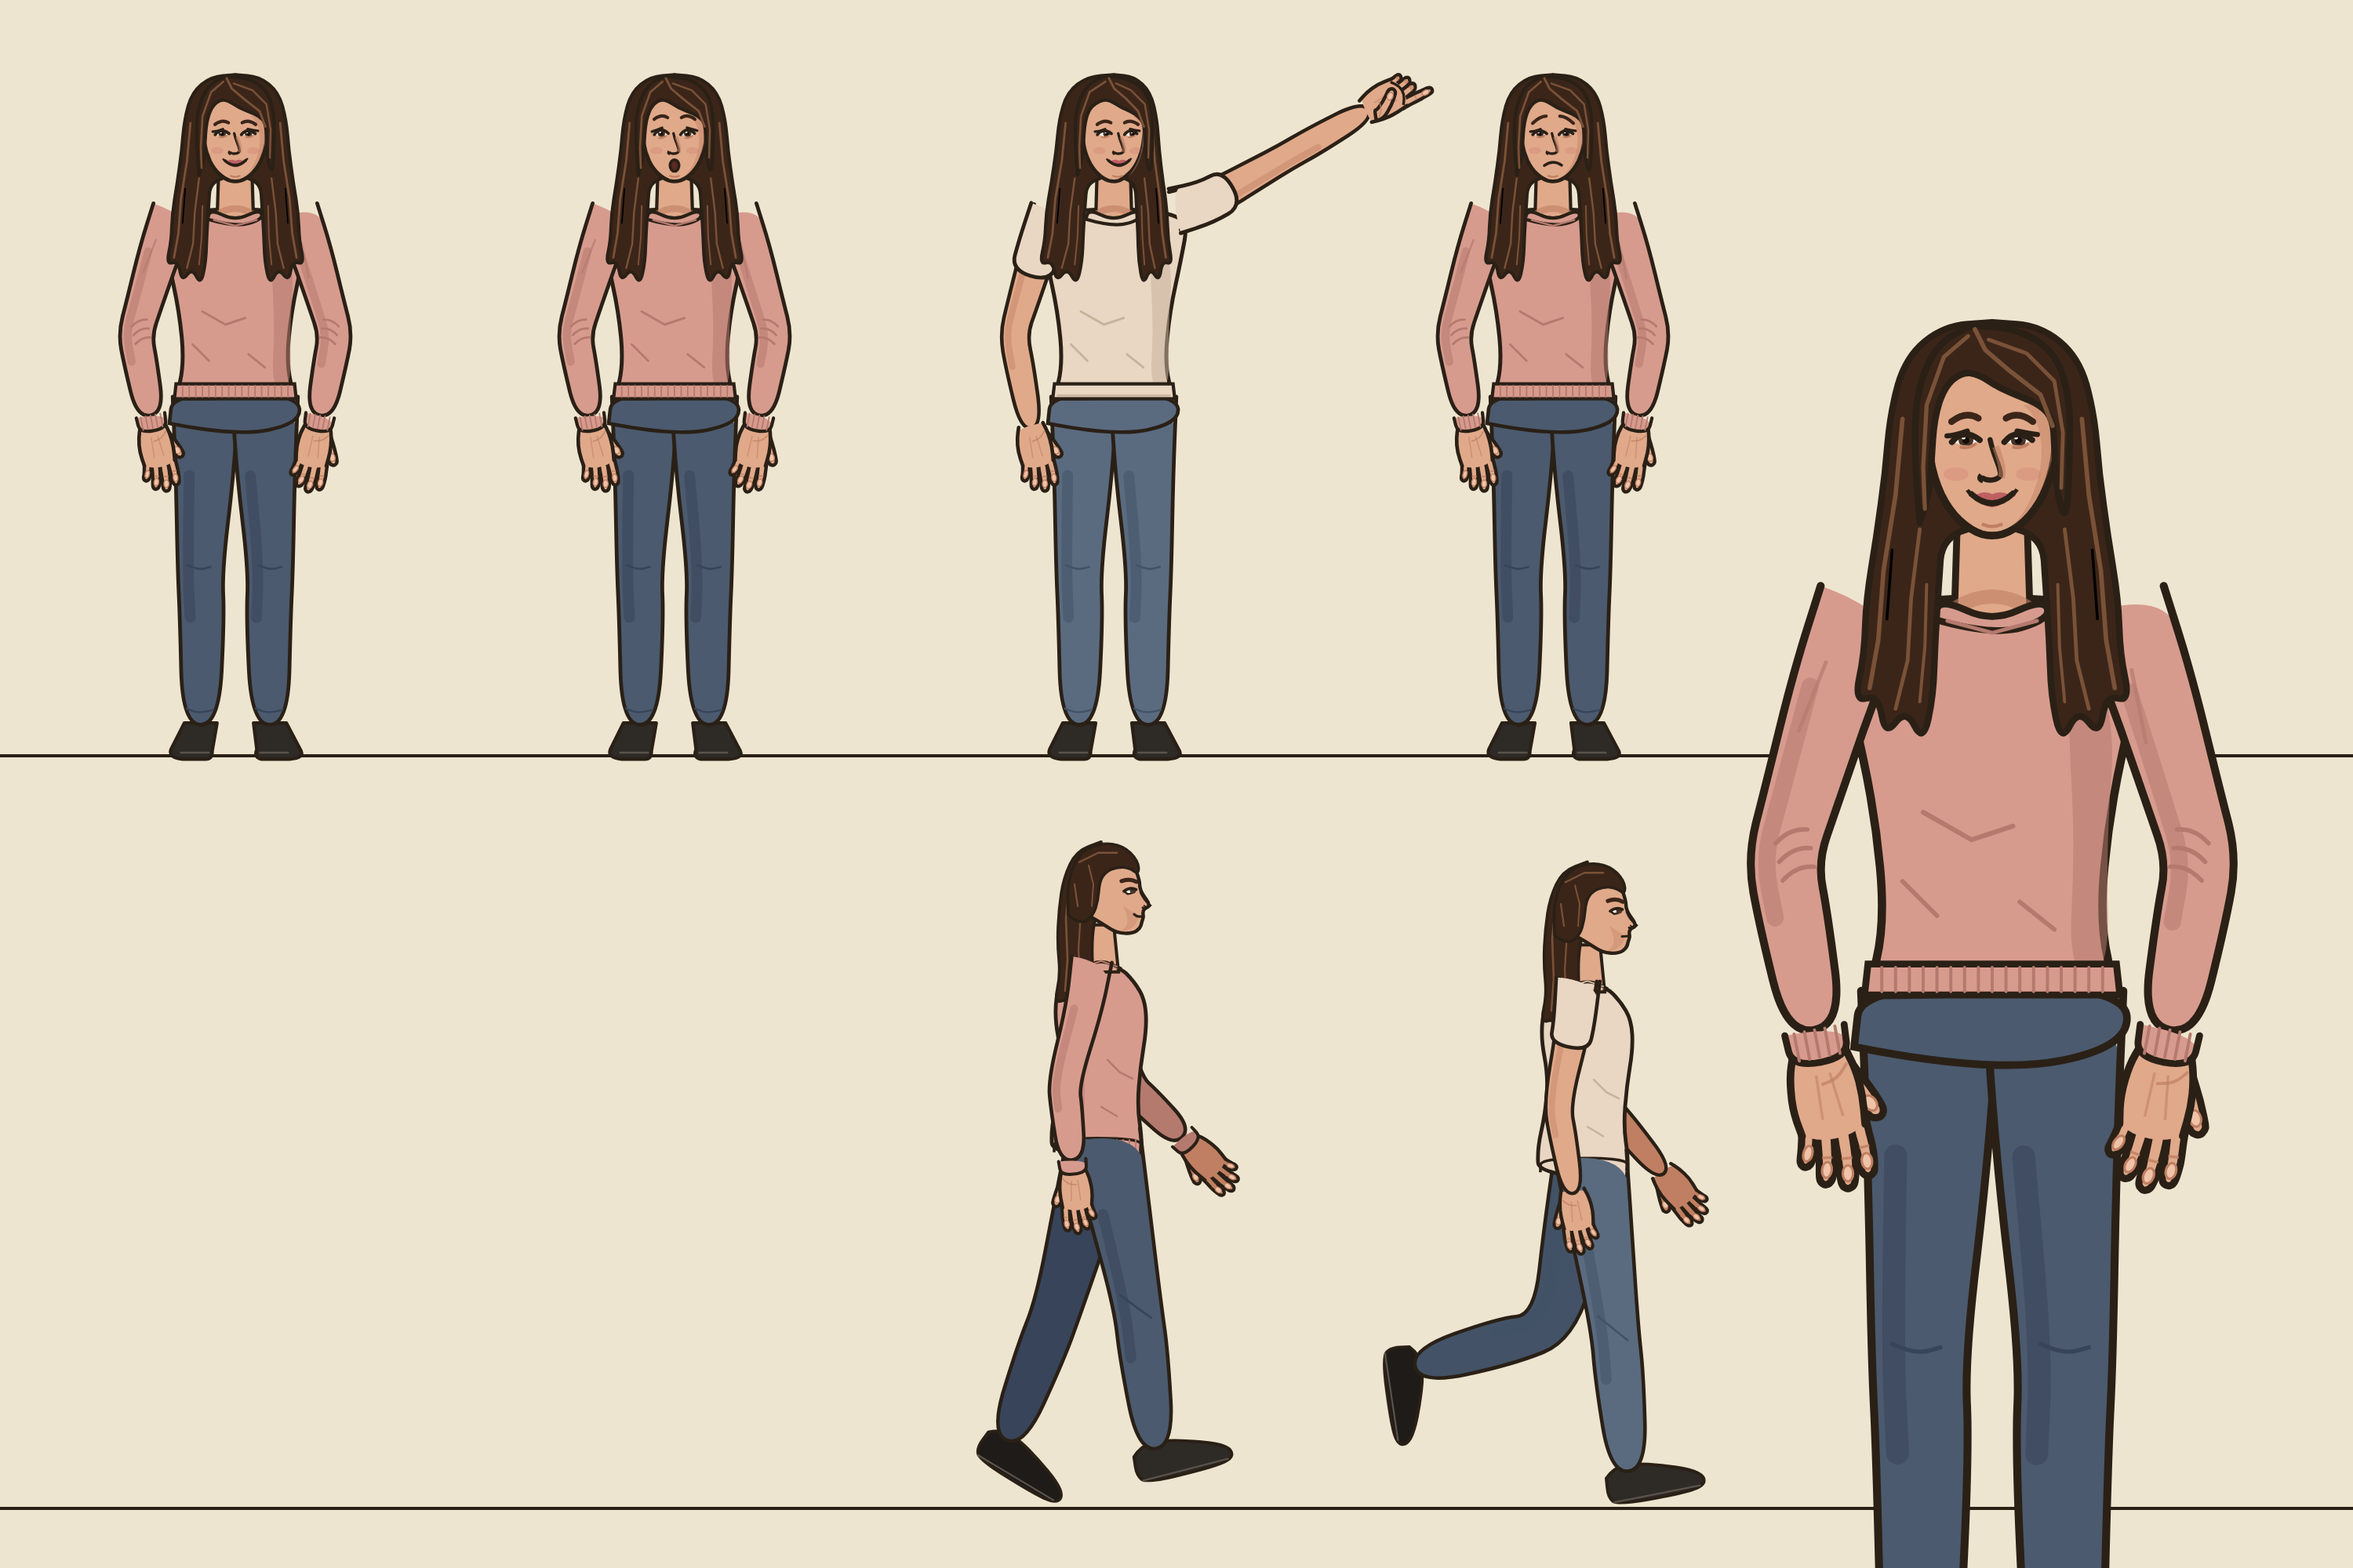
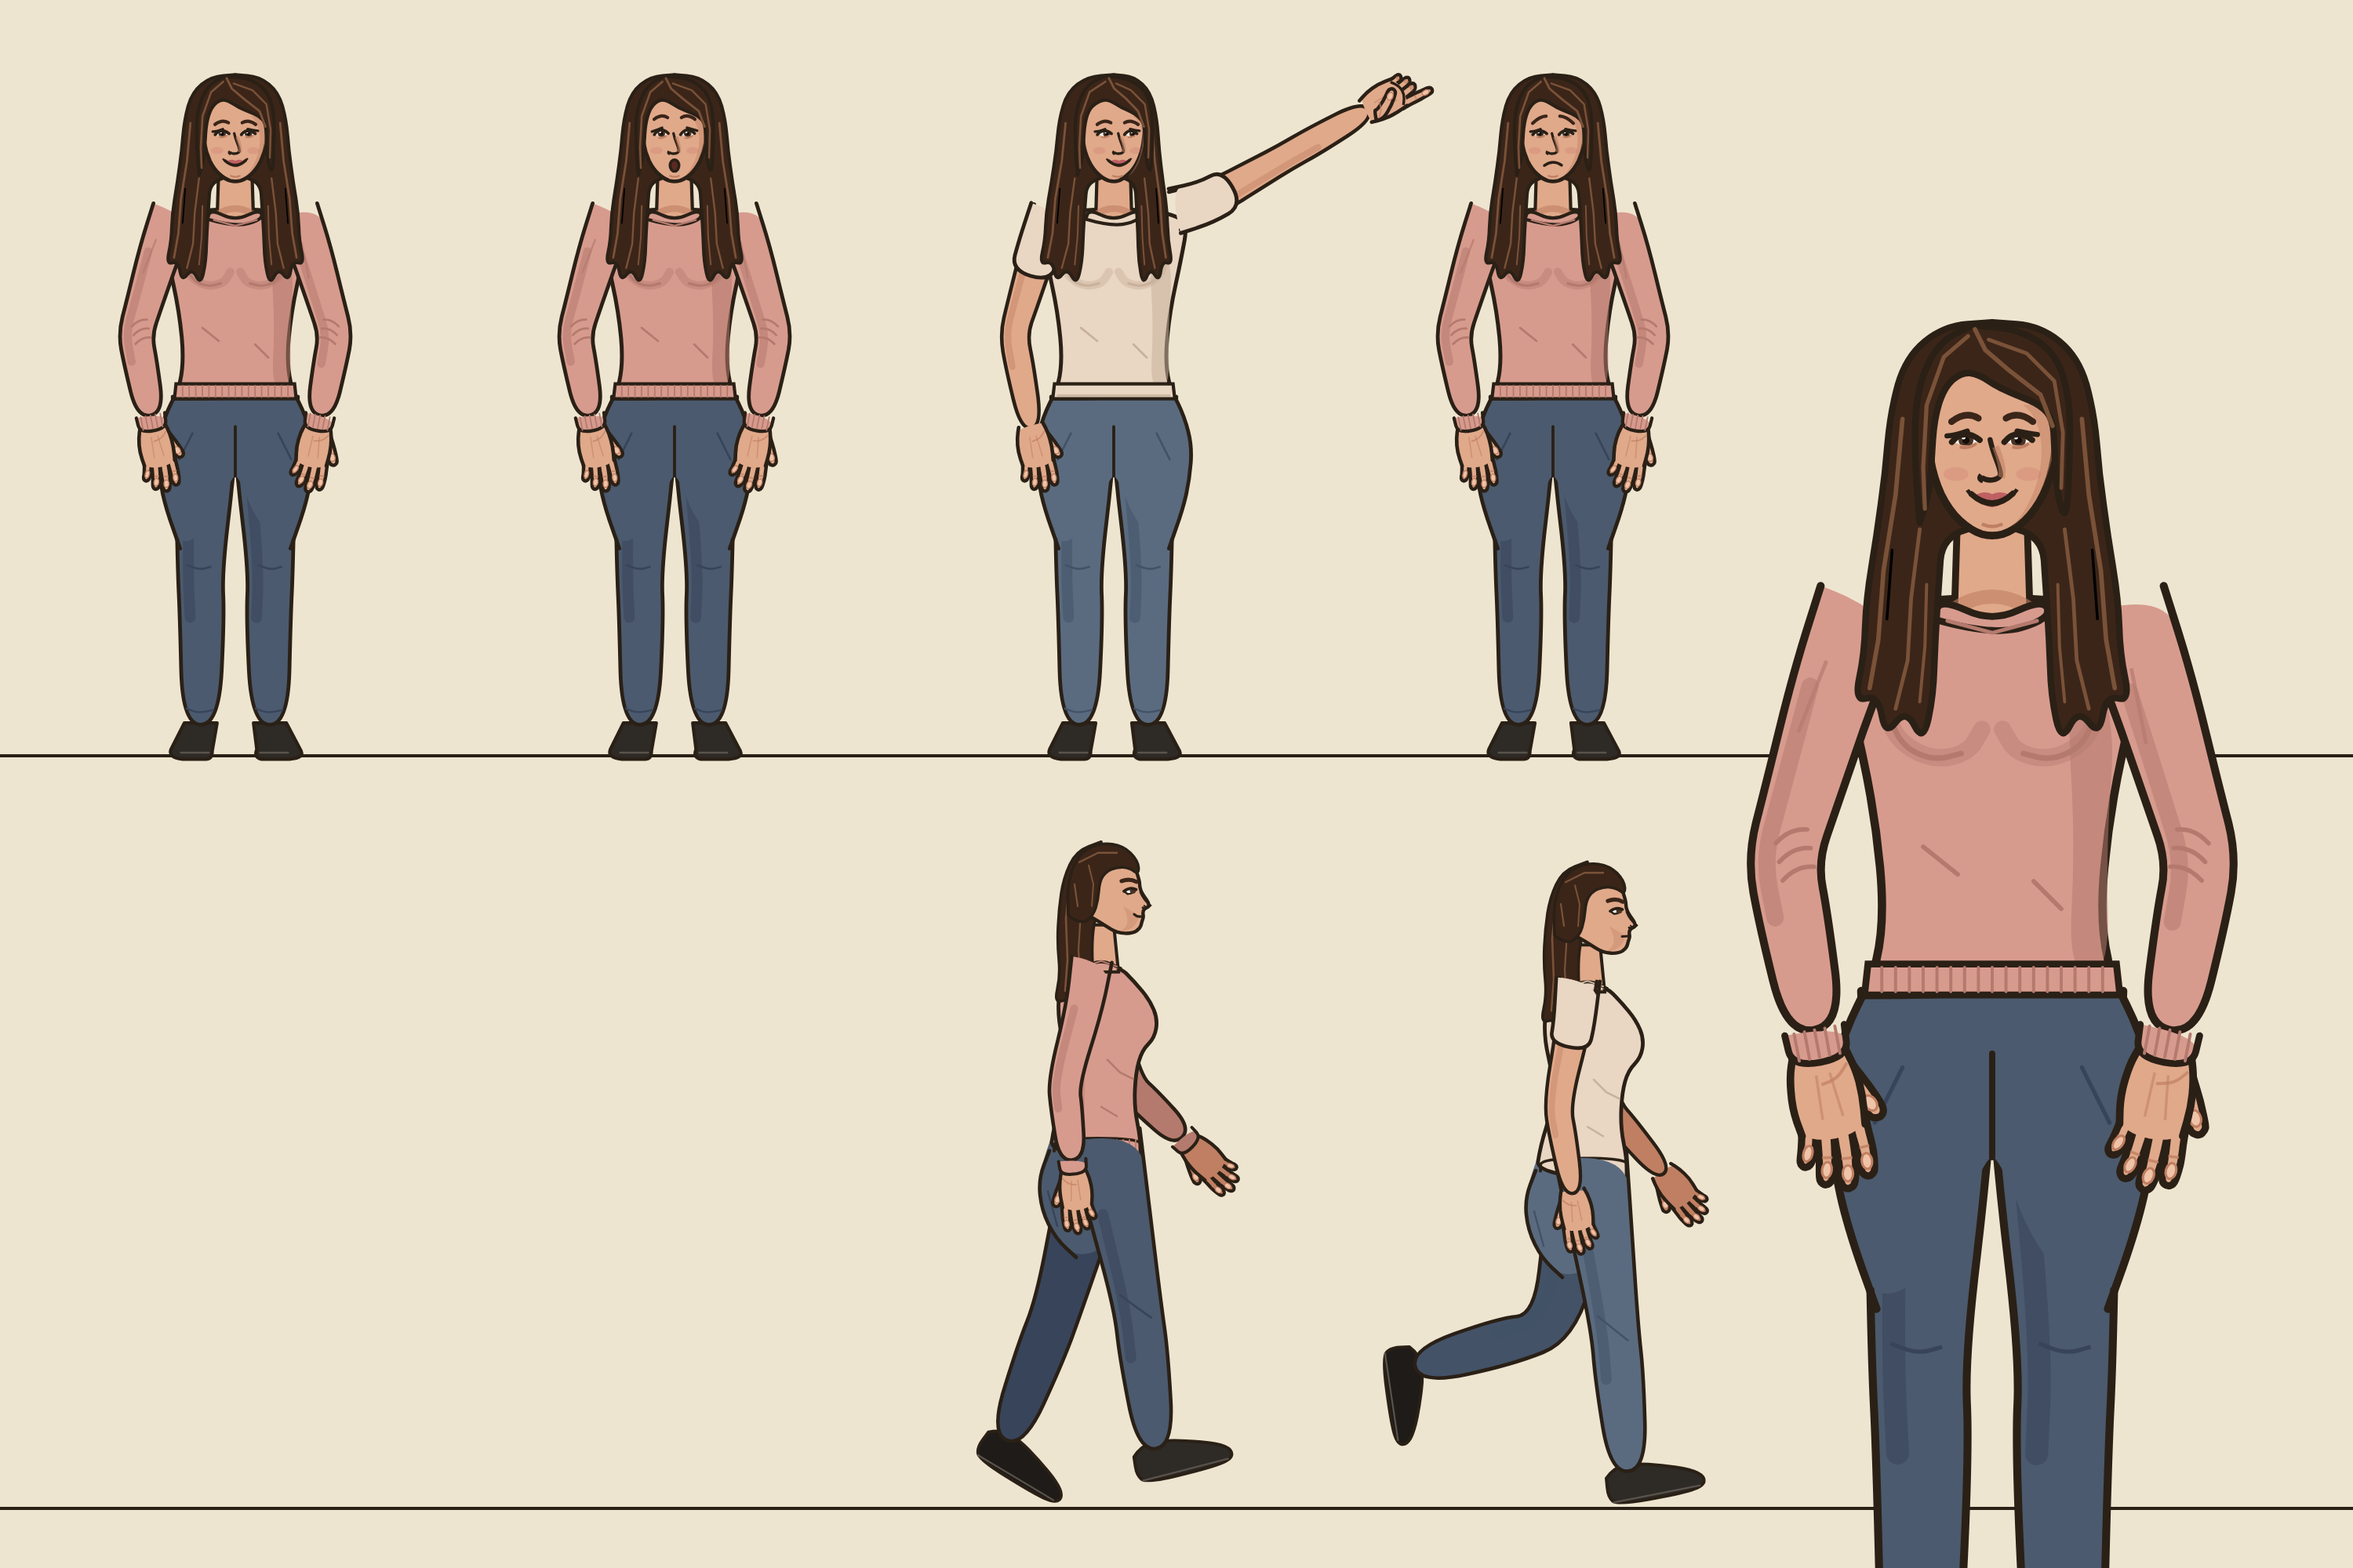
person kit: woman's figure (bust, waist, hips, seat) front and side
Claude-Session: https://claude.ai/code/session_016TN7FKE73HoqbYAQbW5n3B

diff --git a/videos/_templates/people/person.js b/videos/_templates/people/person.js
@@ -39,7 +39,7 @@ var OUTFITS = {
   worker: { top: "tshirt", over: "vest", hat: "hardhat", feet: "boots", colors: { shirt: "#7f97a6", shirtD: "#61798a", pants: "#4b5a6e", pantsD: "#38445a" } },
   pilot:  { top: "shirt", tie: true, epaulettes: true, hat: "pilot", feet: "shoes", colors: { shirt: "#f4f2ec", shirtD: "#d6d2c6", pants: "#262a36", pantsD: "#191c25", tie: "#262a36" } },
   chef:   { top: "shirt", over: "apron", hat: "cap", feet: "shoes", colors: { shirt: "#f4f2ec", shirtD: "#d6d2c6", pants: "#3b3f4a", pantsD: "#2a2d36", hat: "#f4f2ec", hatD: "#d6d2c6" } },
-  // a woman: the same body, long hair over the shoulders, lashes and tinted lips (hair: "long", fem: true work with any outfit)
+  // a woman: the same joints; long hair over the shoulders, lashes, tinted lips, softer shoulders, a waist, the bust and wider hips and seat (front and side) (hair: "long", fem: true work with any outfit)
   woman:  { top: "sweater", feet: "shoes", hair: "long", fem: true, colors: { shirt: "#d79b8e", shirtD: "#b57a6e", pants: "#4b5a6e", pantsD: "#38445a", hair: "#3b2519", hairL: "#7a5238", lip: "#b8545c" } },
   womanCasual: { top: "tshirt", feet: "shoes", hair: "long", fem: true, colors: { shirt: "#e9d6c3", shirtD: "#c9b29c", pants: "#5a6b80", pantsD: "#435266", hair: "#3b2519", hairL: "#7a5238", lip: "#b8545c" } }
 };
@@ -276,11 +276,24 @@ function person(o) {
   svg += OF.feet === "boots" ? legSvg + feet : feet + legSvg;
   // ── trunk: sweater with ribbed hem, crew collar, side folds; the trousers' waist under the hem ──
   var wy = 7 + br * .3;
+  if (OF.fem) {   // a woman's hips: wider below a slimmer waist, flowing into the thighs (filled, outlined only on the outer curves)
+    var hipF = [T(12, -35), T(-4, -43), T(-22, -47.5), T(-42, -46), T(-60, -42), T(-84, -33.5), T(-70, -14), T(-40, -2), T(-40, 2), T(-70, 14), T(-84, 33.5), T(-60, 42), T(-42, 46), T(-22, 47.5), T(-4, 43), T(12, 35)];
+    svg += '<path d="' + pPath(hipF, true) + '" fill="' + c.pants + '"/>';
+    [-1, 1].forEach(function (sd) { svg += '<path d="' + pPath([T(12, sd * 35), T(-4, sd * 43), T(-22, sd * 47.5), T(-42, sd * 46), T(-60, sd * 42), T(-84, sd * 33.5)], false) + '" stroke="' + INK + '" stroke-width="' + f(2.3 * s) + '" fill="none" stroke-linecap="round"/>'; });
+    svg += pLine([T(-10, 0), T(-40, 0)], INK, 1.8 * s) + pLine([T(-14, -26), T(-30, -34)], c.pantsD, 1.2 * s) + pLine([T(-14, 26), T(-30, 34)], c.pantsD, 1.2 * s);
+  } else
   svg += '<path d="' + pPath([T(-8, -40), T(10, -38), T(10, 38), T(-8, 40), T(-16, 0)], true) + '" fill="' + c.pants + '" stroke="' + INK + '" stroke-width="' + f(2.2 * s) + '"/>';
   var tor = [T(wy, -37), T(30, -33 - br * .3), T(70, -38 - br * .4), T(96, -42), T(hSh + 2, -46 + 2 * sl), T(hSh + 8, -30), T(hNeck + 2, -13), T(hNeck + 2, 13), T(hSh + 8, 30), T(hSh + 2, 46 - 2 * sl), T(96, 42), T(70, 38 + br * .4), T(30, 33 + br * .3), T(wy, 37)];
   if (OF.fem) tor = [T(wy, -36), T(28, -31 - br * .3), T(60, -34 - br * .4), T(92, -41), T(hSh, -45 + 2 * sl), T(hSh + 6, -33), T(hNeck + 2, -12), T(hNeck + 2, 12), T(hSh + 6, 33), T(hSh, 45 - 2 * sl), T(92, 41), T(60, 34 + br * .4), T(28, 31 + br * .3), T(wy, 36)];   // the same joints; softer shoulders, a slight waist
   svg += '<path d="' + pPath(tor, true) + '" fill="' + c.shirt + '" stroke="' + INK + '" stroke-width="' + f(2.4 * s) + '"/>';
   svg += '<path d="' + pPath([T(hSh, 22), T(90, 36), T(50, 33), T(wy + 6, 34), T(wy + 6, 22), T(50, 24), T(86, 22)], true) + '" fill="' + c.shirtD + '" opacity=".55"/>';   // shaded far side
+  if (OF.fem) {   // the bust under the sweater: a soft shadow and the lower curve of each side, nothing more
+    [-1, 1].forEach(function (sd) {
+      svg += '<path d="' + pPath([T(94, sd * 31), T(82, sd * 29), T(75, sd * 18), T(77, sd * 7), T(84, sd * 3)], false) + '" stroke="' + c.shirtD + '" stroke-width="' + f(5 * s) + '" fill="none" opacity=".45" stroke-linecap="round"/>';
+      svg += '<path d="' + pPath([T(88, sd * 30), T(79, sd * 26), T(75, sd * 17), T(77, sd * 9)], false) + '" stroke="' + c.shirtD + '" stroke-width="' + f(1.6 * s) + '" fill="none" stroke-linecap="round"/>';
+    });
+    svg += pLine([T(50, -20), T(42, -10)], c.shirtD, 1.3 * s) + pLine([T(40, 12), T(32, 20)], c.shirtD, 1.3 * s);
+  } else
   svg += pLine([T(60, -20), T(52, -6), T(56, 6)], c.shirtD, 1.4 * s) + pLine([T(34, 8), T(26, 18)], c.shirtD, 1.3 * s) + pLine([T(40, -26), T(30, -16)], c.shirtD, 1.3 * s);
   var hem = [T(wy, -37), T(wy + 9, -36), T(wy + 9, 36), T(wy, 37)];
   svg += '<path d="M' + hem.map(function (p) { return f(p[0]) + " " + f(p[1]); }).join(" L") + ' Z" fill="' + c.shirt + '" stroke="' + INK + '" stroke-width="' + f(2 * s) + '"/>';
@@ -419,7 +432,10 @@ function personSide(o) {
   });
   // ── trunk in profile: chest, back, the sweater's hem and collar ──
   var fr = [[-4, 27], [10, 28], [30, 25], [56, 27 + br], [80, 31 + br], [98, 30], [110, 23], [120, 13]], bk = [[121, -13], [110, -25], [88, -28], [62, -23], [38, -25], [16, -30], [-2, -29]];
+  if (OF.fem) { fr = [[-4, 27], [10, 27], [30, 23], [52, 24 + br], [66, 28 + br], [74, 36 + br], [86, 38 + br], [98, 33], [110, 23], [120, 13]]; bk = [[121, -13], [110, -24], [88, -26], [62, -20], [40, -21], [18, -28], [-2, -31]]; }
   var torso = fr.concat(bk).map(function (q) { return T(q[0], q[1]); });
+  var seat = OF.fem ? '<path d="' + pPath([T(18, -27), T(2, -33), T(-16, -38), T(-36, -36), T(-54, -27), T(-66, -14), T(-60, 6), T(-10, 10), T(14, 2)], true) + '" fill="' + c.pants + '"/>' +   // the seat: filled, outlined only along the back curve
+      '<path d="' + pPath([T(2, -31), T(-16, -38), T(-36, -36), T(-54, -27), T(-66, -14)], false) + '" stroke="' + INK + '" stroke-width="2.3" fill="none" stroke-linecap="round"/>' + pLine([T(-24, -32), T(-46, -26)], c.pantsD, 1.2) : "";
   var trunk = '<path d="' + pPath(torso, true) + '" fill="' + c.shirt + '" stroke="' + INK + '" stroke-width="2.4"/>';
   trunk += '<path d="' + pPath([T(112, -16), T(86, -20), T(60, -15), T(30, -18), T(8, -22), T(8, -10), T(40, -8), T(80, -10)], true) + '" fill="' + c.shirtD + '" opacity=".45"/>';
   trunk += '<path d="' + pPath([T(2, 27), T(10, 27.5), T(10, -28), T(1, -28)], false) + '" stroke="' + INK + '" stroke-width="1.8" fill="none"/>';
@@ -476,7 +492,7 @@ function personSide(o) {
     part.arm[i] = g; if (!i) { J.wrist = wr; J.elbow = el; }
   });
   var coatSvg = OF.over === "labcoat" ? '<path d="' + pPath([T(121, -14), T(121, 16), T(96, 34), T(30, 32), T(-66, 38), T(-68, -34), T(30, -32), T(96, -30)], true) + '" fill="' + c.coat + '" stroke="' + INK + '" stroke-width="2.2"/>' + pLine([T(112, 18), T(70, 30), T(60, 33)], c.coatD, 2) + pLine([T(-10, 30), T(-60, 34)], c.coatD, 1.3) : "";
-  var body = part.arm[1] + part.leg[1] + trunk + part.leg[0] + coatSvg + neck + head + part.arm[0];
+  var body = part.arm[1] + part.leg[1] + seat + trunk + part.leg[0] + coatSvg + neck + head + part.arm[0];
   var s = o.s || 1, dir = o.dir || 1;
   J.toLocal = function (p) { return p; };
   var tr = "translate(" + f(o.x) + " " + f(o.y) + ") rotate(" + f(o.rot || 0) + ") scale(" + f(s * dir) + " " + f(s) + ")";
